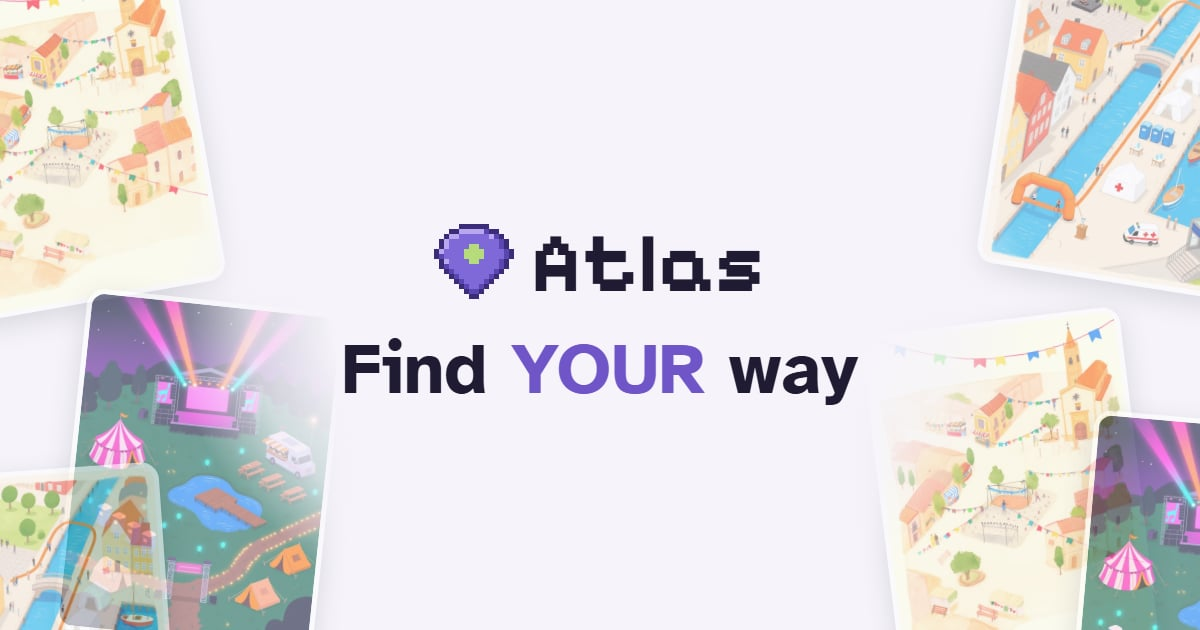
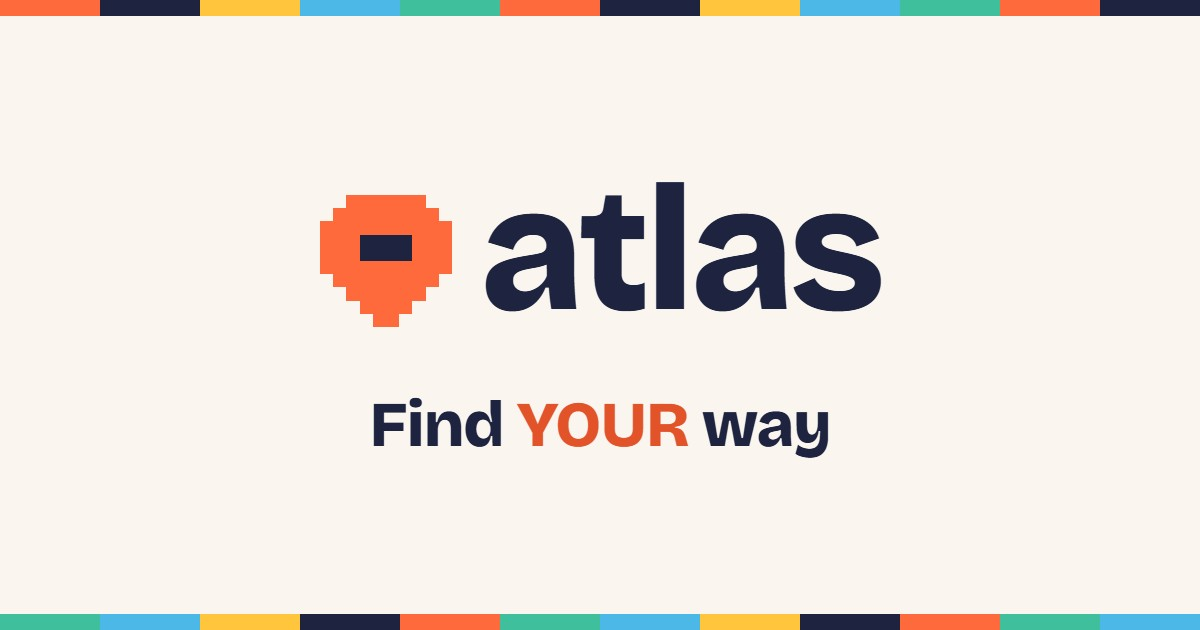
Designer's new-brand link-preview assets: badge.png, brand-card.jpg and their sources (slice 19a)

diff --git a/design/assets/og/badge.source.html b/design/assets/og/badge.source.html
@@ -1,11 +1,12 @@
-<!doctype html><html><head><meta charset="utf-8"><link rel="stylesheet" href="https://fonts.googleapis.com/css2?family=Pixelify+Sans:wght@700&display=swap"><!-- Render at 168x72 with a transparent background to regenerate badge.png --><style>
-html,body{margin:0;background:transparent}
-.b{position:absolute;left:10px;top:8px;width:148px;box-sizing:border-box;justify-content:center;display:flex;align-items:center;gap:8px;height:52px;padding:0 18px 0 12px;background:rgba(255,255,255,.95);border-radius:14px;box-shadow:0 2px 8px rgba(20,16,40,.35);font:700 28px/1 "Pixelify Sans";color:#1f1b33;letter-spacing:.01em}
+<!doctype html><html><head><meta charset="utf-8">
+<!-- Source for badge.png (168x72, transparent PNG). Matches apps/web/public/cover-badge.png.
+Regenerate (from this folder): chrome --headless=new --disable-gpu --hide-scrollbars --force-device-scale-factor=1
+  --default-background-color=00000000 --window-size=168,72 --screenshot=badge.png badge.source.html
+Fonts are the self-hosted @fontsource copies in the repo's node_modules (no fallback). -->
+<style>
+@font-face{font-family:"Bricolage Grotesque";font-weight:800;src:url("../../../node_modules/@fontsource/bricolage-grotesque/files/bricolage-grotesque-latin-800-normal.woff2") format("woff2")}
+html,body{margin:0;width:168px;height:72px;overflow:hidden;background:transparent}
+.b{position:absolute;left:8px;top:6px;width:152px;height:54px;box-sizing:border-box;display:flex;align-items:center;justify-content:center;gap:10px;padding-bottom:1px;background:#FAF6EF;border-radius:27px;box-shadow:0 2px 8px rgba(30,35,64,.35);font:800 36px/1 "Bricolage Grotesque";letter-spacing:-.03em;color:#1E2340}
+.b span{position:relative;top:-2px}
 svg{display:block}
-</style></head><body><div class="b" id="b"><svg width="32" height="32" viewBox="0 0 16 16" shape-rendering="crispEdges">
-<path fill="#3A2C78" d="M5 0h6v1h-6zM3 1h2v1h-2zM11 1h2v1h-2zM2 2h1v1h-1zM13 2h1v1h-1zM1 3h1v1h-1zM14 3h1v1h-1zM1 4h1v1h-1zM14 4h1v1h-1zM0 5h1v1h-1zM15 5h1v1h-1zM0 6h1v1h-1zM15 6h1v1h-1zM1 7h1v1h-1zM14 7h1v1h-1zM1 8h1v1h-1zM14 8h1v1h-1zM2 9h1v1h-1zM13 9h1v1h-1zM3 10h1v1h-1zM12 10h1v1h-1zM4 11h1v1h-1zM11 11h1v1h-1zM5 12h1v1h-1zM10 12h1v1h-1zM6 13h1v1h-1zM9 13h1v1h-1zM7 14h2v1h-2z"/>
-<path fill="#5B45B0" d="M10 1h1v1h-1zM12 2h1v1h-1zM13 3h1v1h-1zM13 4h1v1h-1zM14 5h1v1h-1zM1 6h1v1h-1zM14 6h1v1h-1zM13 7h1v1h-1zM2 8h1v1h-1zM13 8h1v1h-1zM3 9h1v1h-1zM12 9h1v1h-1zM4 10h1v1h-1zM11 10h1v1h-1zM5 11h1v1h-1zM10 11h1v1h-1zM6 12h1v1h-1zM9 12h1v1h-1zM7 13h2v1h-2z"/>
-<path fill="#7F68D8" d="M5 2h6v1h-6zM3 3h10v1h-10zM3 4h4v1h-4zM9 4h4v1h-4zM2 5h4v1h-4zM10 5h4v1h-4zM2 6h4v1h-4zM10 6h4v1h-4zM3 7h4v1h-4zM9 7h4v1h-4zM3 8h10v1h-10zM4 9h8v1h-8zM5 10h6v1h-6zM6 11h4v1h-4zM7 12h2v1h-2z"/>
-<path fill="#B9A8F0" d="M5 1h5v1h-5zM3 2h2v1h-2zM11 2h1v1h-1zM2 3h1v1h-1zM2 4h1v1h-1zM1 5h1v1h-1zM2 7h1v1h-1z"/>
-<path fill="#B5DB7A" d="M7 4h2v1h-2zM6 5h4v1h-4zM6 6h4v1h-4zM7 7h2v1h-2z"/></svg><span>Atlas</span></div>
-<script>document.fonts.ready.then(()=>{const r=document.getElementById('b').getBoundingClientRect();document.title=r.width+'x'+r.height})</script></body></html>
+</style></head><body><div class="b"><svg width="30" height="30" viewBox="0 0 80 80" shape-rendering="crispEdges" aria-hidden="true"><g fill="#FF6A3D"><rect x="16" y="0" width="48" height="8"/><rect x="8" y="8" width="64" height="8"/><rect x="0" y="16" width="80" height="8"/><rect x="0" y="24" width="24" height="16"/><rect x="56" y="24" width="24" height="16"/><rect x="0" y="40" width="80" height="8"/><rect x="8" y="48" width="64" height="8"/><rect x="16" y="56" width="48" height="8"/><rect x="24" y="64" width="32" height="8"/><rect x="32" y="72" width="16" height="8"/></g><rect x="24" y="24" width="32" height="16" fill="#1E2340"/></svg><span>atlas</span></div></body></html>

diff --git a/design/assets/og/brand-card.source.html b/design/assets/og/brand-card.source.html
@@ -1,0 +1,25 @@
+<!doctype html><html><head><meta charset="utf-8">
+<!-- Source for brand-card.jpg (1200x630, baseline JPEG): generic site link preview, no event content.
+Regenerate (from this folder): chrome --headless=new --disable-gpu --hide-scrollbars --force-device-scale-factor=1
+  --window-size=1200,630 --screenshot=brand-card.png brand-card.source.html
+then convert to baseline JPEG, e.g. python -c "from PIL import Image;Image.open('brand-card.png').convert('RGB').save('brand-card.jpg',quality=90,progressive=False)"
+Fonts are the self-hosted @fontsource copies in the repo's node_modules (no fallback). -->
+<style>
+@font-face{font-family:"Bricolage Grotesque";font-weight:800;src:url("../../../node_modules/@fontsource/bricolage-grotesque/files/bricolage-grotesque-latin-800-normal.woff2") format("woff2")}
+html,body{margin:0;width:1200px;height:630px;overflow:hidden;background:#FAF6EF}
+body{position:relative;font-family:"Bricolage Grotesque";color:#1E2340}
+.wrap{position:absolute;inset:0;display:flex;flex-direction:column;align-items:center;justify-content:center;gap:44px}
+.lockup{display:flex;align-items:center;gap:28px}
+.lockup svg{display:block}
+.word{font-weight:800;font-size:176px;line-height:1;letter-spacing:-.03em;position:relative;top:-10px}
+.tag{font-weight:800;font-size:64px;line-height:1;letter-spacing:-.02em}
+.tag b{color:#E2532A}
+/* pixel-cell border motif in brand colours, top and bottom edges */
+.edge{position:absolute;left:0;right:0;height:16px;display:flex}
+.edge.t{top:0}.edge.btm{bottom:0}
+.edge i{flex:1}
+</style></head><body>
+<div class="edge t"><i style="background:#FF6A3D"></i><i style="background:#1E2340"></i><i style="background:#FFC53D"></i><i style="background:#4CB8E8"></i><i style="background:#3FBF9B"></i><i style="background:#FF6A3D"></i><i style="background:#1E2340"></i><i style="background:#FFC53D"></i><i style="background:#4CB8E8"></i><i style="background:#3FBF9B"></i><i style="background:#FF6A3D"></i><i style="background:#1E2340"></i></div>
+<div class="wrap"><div class="lockup"><svg width="132" height="132" viewBox="0 0 80 80" shape-rendering="crispEdges" aria-hidden="true"><g fill="#FF6A3D"><rect x="16" y="0" width="48" height="8"/><rect x="8" y="8" width="64" height="8"/><rect x="0" y="16" width="80" height="8"/><rect x="0" y="24" width="24" height="16"/><rect x="56" y="24" width="24" height="16"/><rect x="0" y="40" width="80" height="8"/><rect x="8" y="48" width="64" height="8"/><rect x="16" y="56" width="48" height="8"/><rect x="24" y="64" width="32" height="8"/><rect x="32" y="72" width="16" height="8"/></g><rect x="24" y="24" width="32" height="16" fill="#1E2340"/></svg><span class="word">atlas</span></div><div class="tag">Find <b>YOUR</b> way</div></div>
+<div class="edge btm"><i style="background:#3FBF9B"></i><i style="background:#4CB8E8"></i><i style="background:#FFC53D"></i><i style="background:#1E2340"></i><i style="background:#FF6A3D"></i><i style="background:#3FBF9B"></i><i style="background:#4CB8E8"></i><i style="background:#FFC53D"></i><i style="background:#1E2340"></i><i style="background:#FF6A3D"></i><i style="background:#3FBF9B"></i><i style="background:#4CB8E8"></i></div>
+</body></html>
